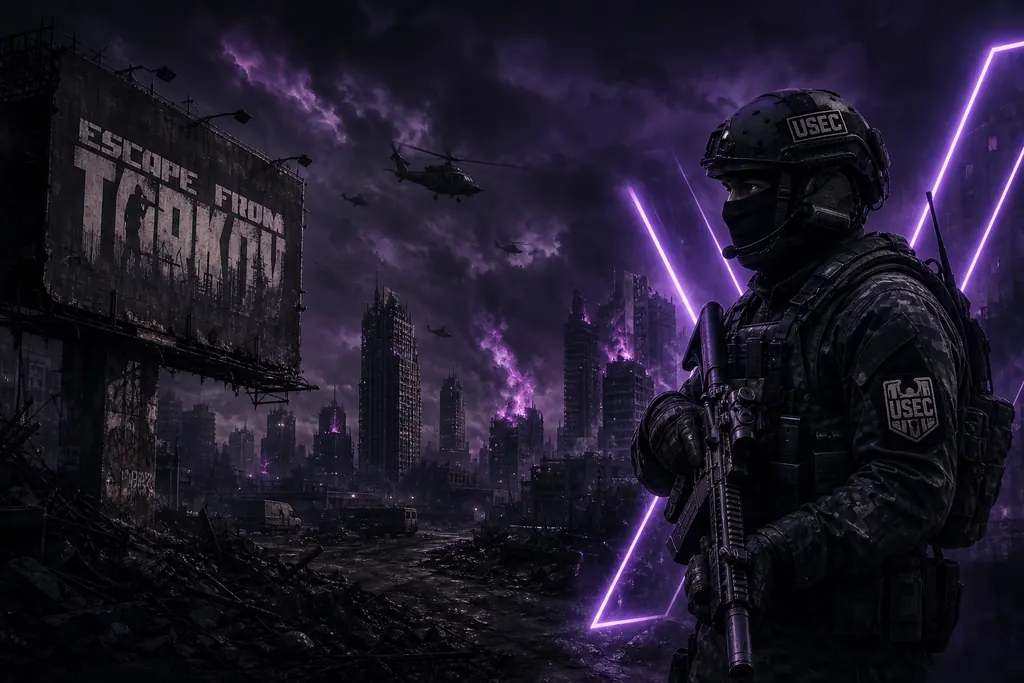
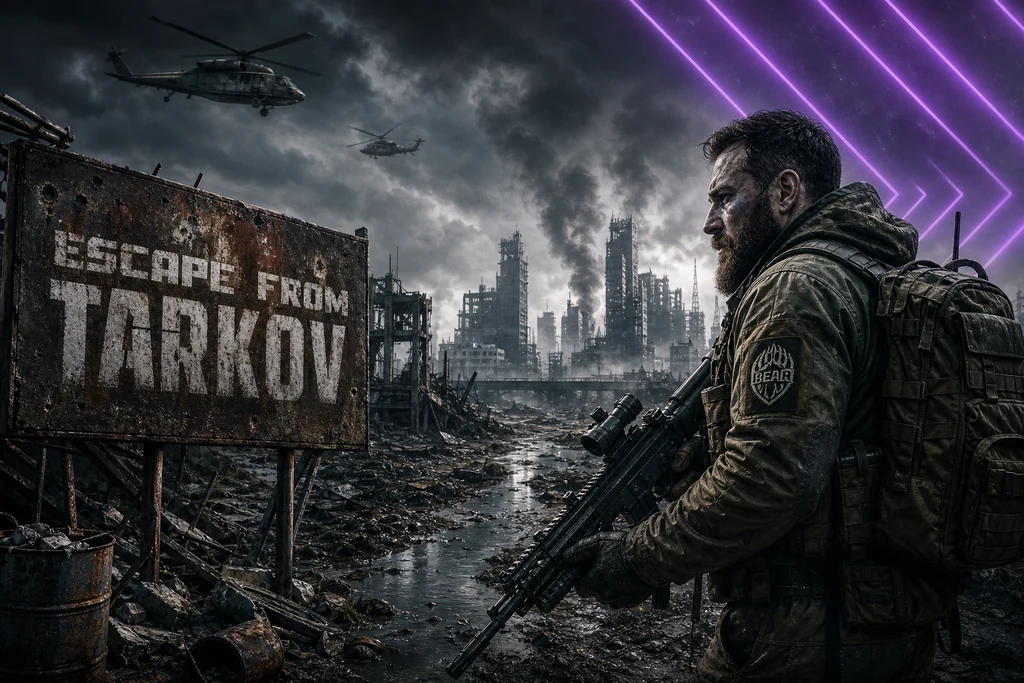
Replace hero with full-HD BEAR artwork and improve visibility
Use new Escape from Tarkov hero art at 1920w WebP, lighten the overlay
veil, and adjust crop/position so the banner stays sharp and clearly visible.

diff --git a/src/data/brand.ts b/src/data/brand.ts
@@ -25,8 +25,8 @@ export const brand = {
 	logoRasterWidth: 512,
 	logoRasterHeight: 512,
 	logoAlt: 'Escape from Tarkov logo',
-	defaultOgImage: '/images/eft-cheats-hero-1024w.webp',
-	heroImage: '/images/eft-cheats-hero-1024w.webp',
+	defaultOgImage: '/images/eft-cheats-hero-1920w.webp',
+	heroImage: '/images/eft-cheats-hero-1920w.webp',
 
 	plans: [
 		{ id: 'monthly', label: 'Monthly', price: 35, duration: 'P30D' },
@@ -71,46 +71,32 @@ export const brand = {
 	 * Aim ~50–60 chars titles, ~140–160 chars descriptions.
 	 */
 	seo: {
-		/** Titles ≤60 chars; descriptions ~140–160 (Google SERP display). */
-		/** Home = brand hub. Money URL /tarkov-cheats/ owns the head term. */
 		homeTitle: 'Escape from Tarkov | Undetected ESP & Aimbot',
-		homeDescription:
-			'Official Escape from Tarkov cheats site for Windows PC. Player ESP, loot ESP, aimbot, Cloud DMA, and BattlEye bypass — compare plans and buy with 24/7 support.',
+		homeDescription: 'Official Escape from Tarkov cheats site for Windows PC. Player ESP, loot ESP, aimbot, Cloud DMA, and BattlEye bypass — compare plans and buy with 24/7 support.',
 		featuresTitle: '{game} Features | {brand}',
-		featuresDescription:
-			'Everything in one {game} license — player ESP with skeleton, loot ESP, extraction ESP, aimbot, no recoil, Cloud DMA, and {antiCheat} bypass on Windows PC.',
+		featuresDescription: 'Everything in one {game} license — player ESP with skeleton, loot ESP, extraction ESP, aimbot, no recoil, Cloud DMA, and {antiCheat} bypass on Windows PC.',
 		storeTitle: '{game} Store | {brand}',
-		storeDescription:
-			'Monthly and lifetime {game} plans for Windows PC. Same ESP, aimbot, and Cloud DMA features on both. Instant delivery after payment checkout.',
+		storeDescription: 'Monthly and lifetime {game} plans for Windows PC. Same ESP, aimbot, and Cloud DMA features on both. Instant delivery after payment checkout.',
 		statusTitle: '{game} Status | {brand}',
-		statusDescription:
-			'Live undetected status for {brand} after {game} or {antiCheat} patches. Check here before you queue a raid on Windows PC today.',
-		/** Money page meta — primary target for "eft cheats". */
+		statusDescription: 'Live undetected status for {brand} after {game} or {antiCheat} patches. Check here before you queue a raid on Windows PC today.',
 		previewTitle: 'Escape from Tarkov Cheats | Undetected ESP',
-		previewDescription:
-			'Buy undetected Escape from Tarkov cheats on Windows PC. Player ESP, loot ESP, aimbot, Cloud DMA, and BattlEye bypass with instant delivery.',
+		previewDescription: 'Buy undetected Escape from Tarkov cheats on Windows PC. Player ESP, loot ESP, aimbot, Cloud DMA, and BattlEye bypass with instant delivery.',
 		setupTitle: '{game} Setup | {brand}',
-		setupDescription:
-			'Install and launch {brand} on Windows PC after checkout. Short setup steps so you can raid faster. Follow each step in order before your first match.',
+		setupDescription: 'Install and launch {brand} on Windows PC after checkout. Short setup steps so you can raid faster. Follow each step in order before your first match.',
 		supportTitle: '{game} Support | {brand}',
-		supportDescription:
-			'Get 24/7 help with {brand} on Windows PC. Email {email} with your order ID for setup, delivery, or billing help after you buy.',
+		supportDescription: 'Get 24/7 help with {brand} on Windows PC. Email {email} with your order ID for setup, delivery, or billing help after you buy.',
 		faqTitle: '{game} FAQ | {brand}',
-		faqDescription:
-			'Short answers about {brand} for Escape from Tarkov — delivery, setup, {antiCheat} updates, Cloud DMA, refunds, and Windows PC notes.',
+		faqDescription: 'Short answers about {brand} for Escape from Tarkov — delivery, setup, {antiCheat} updates, Cloud DMA, refunds, and Windows PC notes.',
 		reviewsTitle: '{brand} Reviews | Buyer Feedback',
-		reviewsDescription:
-			'Buyer reviews for {brand} — ESP, aimbot, loot ESP, Cloud DMA, and patch updates for Escape from Tarkov on Windows PC.',
+		reviewsDescription: 'Buyer reviews for {brand} — ESP, aimbot, loot ESP, Cloud DMA, and patch updates for Escape from Tarkov on Windows PC.',
 		blogTitle: '{game} Intel | {brand}',
-		blogDescription:
-			'Guides and notes for {game} — raid tips, ESP, aimbot, loot routes, and {antiCheat} update coverage for Windows PC players who raid.',
+		blogDescription: 'Guides and notes for {game} — raid tips, ESP, aimbot, loot routes, and {antiCheat} update coverage for Windows PC players who raid.',
 	},
 
 	/** On-page marketing copy (tokens allowed) */
 	copy: {
 		tagline: 'Undetected {primaryKeyword} — ESP, aimbot, loot ESP & Cloud DMA for PC',
-		summary:
-			'{brand} is an undetected {game} cheat package for Windows PC. Includes player ESP with skeleton, loot ESP, aimbot, no recoil, and Cloud DMA with {antiCheat} bypass.',
+		summary: '{brand} is an undetected {game} cheat package for Windows PC. Includes player ESP with skeleton, loot ESP, aimbot, no recoil, and Cloud DMA with {antiCheat} bypass.',
 		heroLede: 'Undetected player ESP, loot ESP, aimbot, and Cloud DMA for Escape from Tarkov on Windows PC.',
 		blogLabel: 'Tarkov Intel',
 		ctaBuy: 'Get Access',
@@ -118,8 +104,7 @@ export const brand = {
 		featuresIntro: 'Everything included in one license for {game} on Windows PC.',
 		storeIntro: 'Pick a plan. Same features on both. Instant delivery after payment.',
 		statusIntro: 'Check here after a {game} or {antiCheat} patch before you raid.',
-		previewIntro:
-			'Undetected cheats for {game} — player ESP with skeleton, loot ESP, aimbot, no recoil, Cloud DMA, and BattlEye bypass.',
+		previewIntro: 'Undetected cheats for {game} — player ESP with skeleton, loot ESP, aimbot, no recoil, Cloud DMA, and BattlEye bypass.',
 		setupIntro: 'Install {brand} on Windows PC after you buy. Follow these short steps.',
 		supportIntro: 'Need help with {brand}? Email {email} with your order ID — 24/7 support available.',
 		faqIntro: 'Short answers about delivery, setup, updates, Cloud DMA, and refunds.',
@@ -159,7 +144,7 @@ export const brand = {
 				caption: 'Loot ESP, aimbot, and container ESP in one EFT cheats license',
 			},
 			{
-				src: '/images/eft-cheats-hero-1024w.webp',
+				src: '/images/eft-cheats-hero-1920w.webp',
 				title: 'Escape from Tarkov — ESP and aimbot',
 				caption: 'Undetected cheats with player ESP, loot ESP, and Cloud DMA',
 			},

diff --git a/src/lib/responsive-images.ts b/src/lib/responsive-images.ts
@@ -24,6 +24,7 @@ export function contentSrcSet(baseSrc: string): string | undefined {
 		name.endsWith('-1400w') ||
 		name.endsWith('-1024w') ||
 		name.endsWith('-1536w') ||
+		name.endsWith('-1920w') ||
 		name.endsWith('-480w')
 	) {
 		return undefined;
@@ -38,28 +39,30 @@ export function contentSrcSet(baseSrc: string): string | undefined {
 }
 
 /**
- * Homepage / banner hero — compressed WebP ladder (not the PNG master).
- * Native art ~1536×1024 (~1.5:1).
+ * Homepage / banner hero — full-HD WebP ladder (1920w desktop LCP).
+ * Native art 1920×1280 (~1.5:1) upscaled from source for crisp display.
  */
 export const heroResponsive: ResponsiveWidth[] = [
 	{ src: '/images/eft-cheats-hero-640w.webp', width: 640 },
 	{ src: '/images/eft-cheats-hero-1024w.webp', width: 1024 },
+	{ src: '/images/eft-cheats-hero-1536w.webp', width: 1536 },
+	{ src: '/images/eft-cheats-hero-1920w.webp', width: 1920 },
 ];
 
 export const heroDesktopResponsive: ResponsiveWidth[] = heroResponsive;
 
-/** Default LCP src — mid ladder WebP. */
-export const heroSrc = '/images/eft-cheats-hero-1024w.webp';
+/** Default LCP src — full-HD WebP for desktop clarity. */
+export const heroSrc = '/images/eft-cheats-hero-1920w.webp';
 export const heroSrcSet = buildSrcSet(heroResponsive);
 export const heroSizes = '100vw';
 
-/** LCP preload — same compressed WebP. */
+/** LCP preload — same full-HD WebP. */
 export const heroPreloadSrc = heroSrc;
 export const heroMimeType = 'image/webp';
 
-/** Exact native dimensions (no zoom crop). */
-export const heroWidth = 1024;
-export const heroHeight = 409;
+/** Native dimensions for layout / CLS (1920×1280 upscaled art). */
+export const heroWidth = 1920;
+export const heroHeight = 1280;
 
 /** Responsive widths for below-fold content images. */
 export const contentWidths = [480, 960] as const;

diff --git a/src/data/page-images.ts b/src/data/page-images.ts
@@ -18,25 +18,25 @@ export const crawlPhotoPool = [
  * Prefer compressed WebP screenshots so Google can fetch them quickly.
  */
 export const pageImageSrcById: Record<PageId, string> = {
-	home: '/images/eft-cheats-hero-1024w.webp',
+	home: '/images/eft-cheats-hero-1920w.webp',
 	'tarkov-esp': tarkovImages.playerEsp,
 	'tarkov-aimbot': tarkovImages.aimbotCombat,
 	features: tarkovImages.aimbotSkeleton,
 	pricing: tarkovImages.cheatsCombat,
 	setup: tarkovImages.playerEsp,
-	updates: '/images/eft-cheats-hero-1024w.webp',
+	updates: '/images/eft-cheats-hero-1920w.webp',
 	faq: tarkovImages.aimbotSkeleton,
 	support: tarkovImages.cheatsCombat,
 	undetected: tarkovImages.espWallhack,
 	wallhack: tarkovImages.espWallhack,
 	radar: tarkovImages.playerEsp,
 	battleye: tarkovImages.aimbotCombat,
-	'cheats-2026': '/images/eft-cheats-hero-1024w.webp',
+	'cheats-2026': '/images/eft-cheats-hero-1920w.webp',
 	hacks: tarkovImages.cheatsCombat,
 	'cheat-download': tarkovImages.cheatsCombat,
 	'mod-menu': tarkovImages.playerEsp,
 	'soft-aim': tarkovImages.aimbotSkeleton,
-	'best-cheats': '/images/eft-cheats-hero-1024w.webp',
+	'best-cheats': '/images/eft-cheats-hero-1920w.webp',
 	'aimbot-hack': tarkovImages.aimbotSkeleton,
 	'esp-hack': tarkovImages.espWallhack,
 	'unlock-all': tarkovImages.playerEsp,

diff --git a/src/data/tarkov.ts b/src/data/tarkov.ts
@@ -44,6 +44,6 @@ export const tarkovImages = {
 	sitemap: [
 		{ src: '/images/eft-cheats-screenshot-1.webp', title: '', caption: '' },
 		{ src: '/images/eft-cheats-screenshot-2.webp', title: '', caption: '' },
-		{ src: '/images/eft-cheats-hero-1024w.webp', title: '', caption: '' },
+		{ src: '/images/eft-cheats-hero-1920w.webp', title: '', caption: '' },
 	],
 } as const;
